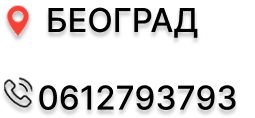
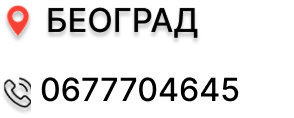
Nova verzija sajta

Changed region(s): [[0.0, 0.6356, 0.9333, 0.9661], [0.0, 0.0254, 0.7961, 0.3559]]

diff --git a/predstavnici.html b/predstavnici.html
@@ -43,29 +43,7 @@
     </div>
 
     <div class="kutija">
-        <div class="okvir">
-            <img src="top-image.png" alt="Top Image" class="top-image" id="sombor">
-            <h2>ЗОРАН ВЕКИЋ</h2>
-            <img src="grupa1.png" alt="Second Image" class="second-image">
-            <div class="bio">
-                <p> Рођен у Кикинди на Северу Баната. Завршио Техничку школу "Михајло Пупин" у Кикинди.
-                    Од малена проводио вријеме у  Цркви. Прабака га је водила тамо из разлога јер  је радила у Цркви и није имао ко да га чува - јер су му родитељи радили како би прехранили Зорана и његовог млађег брата. Наш Зоран је поред баке јако заволео  Цркву и Светиње и тако наставио тај пут.
-                    Почетком средње школе почео је да ради како не би био на терету својој мајци која се мучила да га ишколује и изведе на прави пут.
-                    <br>Зоран се осамосталио са непуних 20 година и тако креће његова борба јер воли своју Отаџбину. Жели да остави неко добро дело иза себе. Креће се по Протестима против овог режима у нади да ће нешто допринети,али увек нешто узалудно.
-                    Ево већ четврта година како је покренуо "Српска Тробојка"" у нади да пробуди Народ како би се ослободили ове диктатуре.
-                    Учествовао у доста Протеста и неких Блокада, ове године покренуо групу грађана Срцем за Сомбор и тако делује,али дошло је до тога да се покрене нешто по целој Србији и тако је са својим пријатељима покренуо "Јачи од Система"!
-                    За њега је Косово и Метохија Срце и Душа Србије!
-                    Предаја му није Опција!
-                    Породица му је на Првом Месту!
-                    Воли свој Народ!
-                    Образ и Част су му пречи од свега!
-                    <br>Живи и Ради у Сомбору већ дуго година и осећа се као да је тамо и рођен. Ожењен је срећно крајем 2022.године. Добија ћерку 2024. почетком априла добија још једну ћерку,бори се и не зависи ни од кога. Циљ му је Слобода коју су нам Преци оставили.
-                    Позива вас да нам се прикључите!
-                    <br>КАКО РАДИЛИ ТАКО НАМ БОГ ПОМОГАО!</p>
-            </div>
-        </div>
-
-      
+       
 
 
               <div class="okvir">
@@ -101,31 +79,10 @@
         </div>
 
 
-   <div class="okvir">
-            <img src="jelena.png" alt="Top Image" class="top-image" id="zemun">
-            <h2>ЈЕЛЕНА ПЕТРОВИЋ </h2>
-            <img src="grupa4.png" alt="Second Image" class="second-image">
-            <div class="bio">
-                <p>
-Рођена у Београду,основну и средњу школу завршила у Београду. Живим у Батајници,општина Земун. Поседујем знање руског и енглеског језика,основни ниво знања.Радила сам као промотер козметичких производа на Сајму козметике у Београду. <br>Хумана,родољубива, породична, љубав према природи и фотографији, путовањима, борац за екологију и заштиту животне средине. Укључила сам се у грађански активизам због решавања проблема и разговора са обичним људима(упознавање нових људи).Решена сам да дам свој допринос грађењем праведнијег и уређенијег друштва.
-
-<br>Јелена Петровић наша представница одбора Јачи од Система Земун,овим путем позива своје суграђане да нам се прикључе</p>
-            </div>
-        </div>
+  
 
 
-   <div class="okvir">
-            <img src="zlatko.png" alt="Top Image" class="top-image" id="pozarevac">
-            <h2>ЗЛАТКО ЂОРЂЕВИЋ </h2>
-            <img src="grupa5.png" alt="Second Image" class="second-image">
-            <div class="bio">
-                <p>
-Рођен 1970.год. у Пожаревцу, где и сада живи.Основно образовање завршио у Пожаревцу, а средње у Бродо машинској школи у Београду. Војску служио у Пљевљима '88/'89. год. Потиче из радничке породице. И сам као радник засновао радни однос са 21.год, давне 1991. на бушотинама у тада ЈП-НАФТИ.Засновао породицу из које имам ћерку и сина.<br>Из ране младости сам био бунтовник и противник власти.Сагледавши све власти и водеће политичке структуре у мом родном граду од 90-тих ни једна није била у интересу грађана и сељака,већ су се само бавиле личним интересима. Од 2024. се налазим у инвалидској пензији и спреман сам да са обичним људима донесем бољитак мом родном граду Пожаревцу јер то свакако заслужује.
-
-<br>Златко је изабран за представника Јачи од Система Пожаревац  где позива своје суграђане да се прикључе да заједно дођу до промена у Пожаревцу.</p>
-            </div>
-        </div>
-
+ 
 
   <div class="okvir">
             <img src="marija.png" alt="Top Image" class="top-image" id="paracin">
@@ -141,68 +98,15 @@
         </div>
 
 
-  <div class="okvir">
-            <img src="nikola.png" alt="Top Image" class="top-image"id="sabac">
-            <h2>НИКОЛА МИЛИЋЕВИЋ </h2>
-            <img src="grupa7.png" alt="Second Image" class="second-image">
-            <div class="bio">
-                <p>
-
-Рођен сам и одрастао у Шапцу од 1974.године где сам завршио основну и средњу грађевинску школу. Отац ми је био професор физичког васпитања,а мајка зубни техничар. Уз оца сам заволео спорт и истицао се у њему па сам тренирао рукомет у чувеном Пк Металопластика,као и пливање и одбојку. На одслужењу војног рока одлазим 1993.године а деведесете су биле веома тешке и ратне године нашег окружења, године немаштине и пропадања. Од 1994.године почињем студије факултета физичике културе које завршавам и постајем професор физичког васпитања, а радио сам и као одбојкашки тренер и судија. Од 2002.године радим у просвети сада запослен у једној основној школи већ 23.године, а већ после неколико година рада увиђамо да је стање у просвети веома лоше. <br>Године 2006. венчавам се и живим у браку са својом супругом Миленом која је професор енглеског језика и са којом имам једну ћерку. Напоменуо бих да сам веома тежак период живота од 1990.године када смо као народ гледали ратове и распад земље у којој смо живели и од тада сам и почео да пратим политичку ситуацију и борио се против неправде која нас је као народ задесила.<br> У студентском протесту 1996/97 године учествовао сам активно на свим тадашњим акцијама као и другим политичким скуповима. На моју жалост током студија доживео сам спортску повреду колена и због тога имао две операције које су ми у почетку олакшале кретање али касније стање ми се погоршава па сам добио статус особе са инвалидитетом и од 2018.године ходам уз помоћ штака. Политичка ситуација под режимом Слободана Милошевића кулминирала је 5.октобра 2000.године,када је народ Србије организовао револуцију,а ја сам био учесник тога дана и са поносом то истичем. С обзиром да се после тог доба припадање српског народа наставило свим другим режимима самим тим припадање није заобишло ни просвету у којој се сад налазим. У школи у којој радим увидео сам разне криминалне радње, због којих сам дигао глас и као последицу против мене је покренут дисциплински поступак преко анонимне пријаве, а судски поступак је и даље у току и налази се пред Уставним судом Србије пуних девет година. <br>Од 2023 године члан сам Независног синдиката просветних радника Србије а активан сам и у борби против режима Александра Вучића који жели да у Србији доведе разне рударске корпорације,а оне ће својим деловањем уништити животну средину у којој се налазимо и под којем леже кости наших предака. Као прву акцију у одбрани те еколошке катастрофе иако имам здравствене тегобе у кретању делимично сам пешачио у организованом маршу од Београда до Лознице преко Цера,пред Видовдан 2024.године,и тиме дао добар пример да се као народ никада не смемо предати у нападима разних непријатеља који нападају народ у целом свету зарад сопствених интереса. Одлучујем да се прикључим Народном Покрету Јачи од Система и дам свој допринос
-
-<br><br>Никола Милићевић представник Јачи од Система Шабац овим путем позива своје суграђане да подрже народну опцију.
-
-</p>
-            </div>
-        </div>
-
-
-<div class="okvir">
-            <img src="biljana.png" alt="Top Image" class="top-image" id="novisad">
-            <h2>БИЉАНА ГЕЛИЋ </h2>
-            <img src="grupa8.png" alt="Second Image" class="second-image">
-            <div class="bio">
-                <p>
-Биљана Гелић, родом из Босне, одрасла у Мошорину, а живим у Новом  Саду. Основну школу завршила у Мошорину, а средњу и вишу у Новом Саду.
-Већи део свог радног века сам се бавила угоститељством, предузетник. На крају сам због намета система  затворила бизнис.
-Сад се бавим као и већина у Србији поштеног света, свим и свачим .
-<br>Јако дуго припадам различитим групама и организацијама, што хуманитарним, сто еколошким, што грађанским.
-Иза мене су различите акције и борбе али, некако, више волим да моја дела говоре уместо мене.
-Једино што могу рећи јесте да ћу дати све од себе да отерамо ово зло!
-
-<br>Биљана Гелић је приступила Народном Покрету Јачи од Система како би дала свој допринос за боље сутра те вас овим путем позива да нам се прикључите како би се изборили са овим злом.
-</p>
-            </div>
-        </div>
 
 
 
 
-<div class="okvir">
-            <img src="marko.png" alt="Top Image" class="top-image"id="valjevo">
-            <h2>МАРКО ЈОВАНОВИЋ </h2>
-            <img src="grupa9.png" alt="Second Image" class="second-image">
-            <div class="bio">
-                <p>
-Зовем се Марко Јовановић. Рођен сам 1988. у граду Ваљеву. Основну и средњу школу сам завршио у Ваљеву - трговински техничар, IV степен стручне спреме . Отац троје деце, сина Виктора (10 година), кћи Дуње (6 година) и Огњена. Родољуб и патриота. Волим и поштујем своју децу, супругу и комад земље који нас све хлебом храни . Радио сам у трговинском ланцу 3 године. Након тога сам се бавио производњом намештаја за једну локалну фирму. Услед короне сам са породицом отишао на село где и сад живимо. Бавимо се сточарством и имамо око 150 оваца. Радимо близу 10 х земље и овце водимо сваке године на ваљевске планине на сезонску испашу коју прете неки тамо да ће нам одузeти због некаквог литија. Дружељубиви и добри смо домаћини, волимо да угостимо што је типично за наш менталитет - немамо непријатеље, нисмо ни са ким у завади. Стављамо се на располагање јер зло које је снашло наш народ мора да се истреби јер не дамо им нашу реку, ливаду и шуму. Ништа од тога није ничија прчија  и није за ударце врећа.
-
-<br><br>Марко Јовановић Народни Покрет Јачи од Система Ваљево
-</p>
-            </div>
-        </div>
 
 
 
-<div class="okvir">
-            <img src="tomislav.png" alt="Top Image" class="top-image">
-            <h2>ТОМИСЛАВ ПОПОВИЋ </h2>
-          
-            <div class="bio">
-                <p>
-Рођен у Пазару, живи у Рашкој. Студира у Београду правни факултет - у року даје испите. Завршио гимназију са одличним успехом. Говори енглески и француски. Активни учесник у протестима и родољубивим акцијама,Томислав Поповић је одлучио да се прикључи народном покрету јачи од система и да свој допринос како не би после студија морао да оде из своје земље. <br> Овим путем позива своје суграђане као и своје колеге са факултета да подрже једину праву опцију.
-</p>
-            </div>
-        </div>
+
+
 
 
 
@@ -222,17 +126,7 @@
 
 
 
-        <div class="okvir">
-            <img src="dragan.png" alt="Top Image" class="top-image"id="krupanj">
-            <h2>ДРАГАН ГЛИГОРИЋ</h2>
-               <img src="grupa11.png" alt="Second Image" class="second-image">
-            <div class="bio">
-                <p>
-Рођен у Крупњу. Основну школу и средњу трговачку завршио у Крупњу гдје и сада живим. Бавим се пољопривредом више од 30 година. Узгајем малине, а задњих 10 година и купине. Волим природу. Бавио сам се и трговином и механичким пословима. Већи део живота провео сам у природи и знам колико природа значи. Због тога  желим да је сачувам и хоћу да дам свој допринос  на овај начин са људима који исто мисле. <br><br>Са поштовањем Драган Глигорић представник Јачи од Система Крупањ.
-
-</p>
-            </div>
-        </div>
+     
 
 
 
@@ -255,26 +149,6 @@
 
 
 
-     <div class="okvir">
-    <h2 id="djordje">ЂОРЂЕ</h2>
-    <img src="grupa13.png" alt="Second Image" class="second-image">
-</div>
-
-
-
-         <div class="okvir">
-           
-            <h2>ЛИДИЈА</h2>
-               <img src="grupa14.png" alt="Second Image" class="second-image"id="loznica">
-
-        </div>
-
-         <div class="okvir">
-           
-            <h2>ФИЛИП ПАЈКОВИЋ</h2>
-               <img src="grupa15.png" alt="Second Image" class="second-image"id="zvezdara">
-
-        </div>
 
             </div>
         </div>

diff --git a/uclani-se.html b/uclani-se.html
@@ -49,7 +49,7 @@
         </div>
         <div class="right-column">
       <form action="https://api.web3forms.com/submit" method="POST">
-    <input type="hidden" name="access_key" value="a1b210bf-f6fd-46c7-98e0-e84ed44b017b">
+    <input type="hidden" name="access_key" value="1bf4f84d-b902-4a32-95c9-24bcb4db10d5">
     <input type="hidden" name="redirect" value="thanks.html">
                 <h2>УЧЛАНИ СЕ!</h2>
                 <label for="Име и презиме">Име и презиме:</label>

diff --git a/styles.css b/styles.css
@@ -591,6 +591,7 @@ header {
     margin-bottom: 20px; /* Razmak između stavki liste */
     font-weight: bold; /* Podebljan tekst */
      font-size: 18px;
+     text-align: left;
 }
 .custom-list li::before {
     content: ''; /* Ova pseudoelement se koristi za dodavanje kvadratića */
